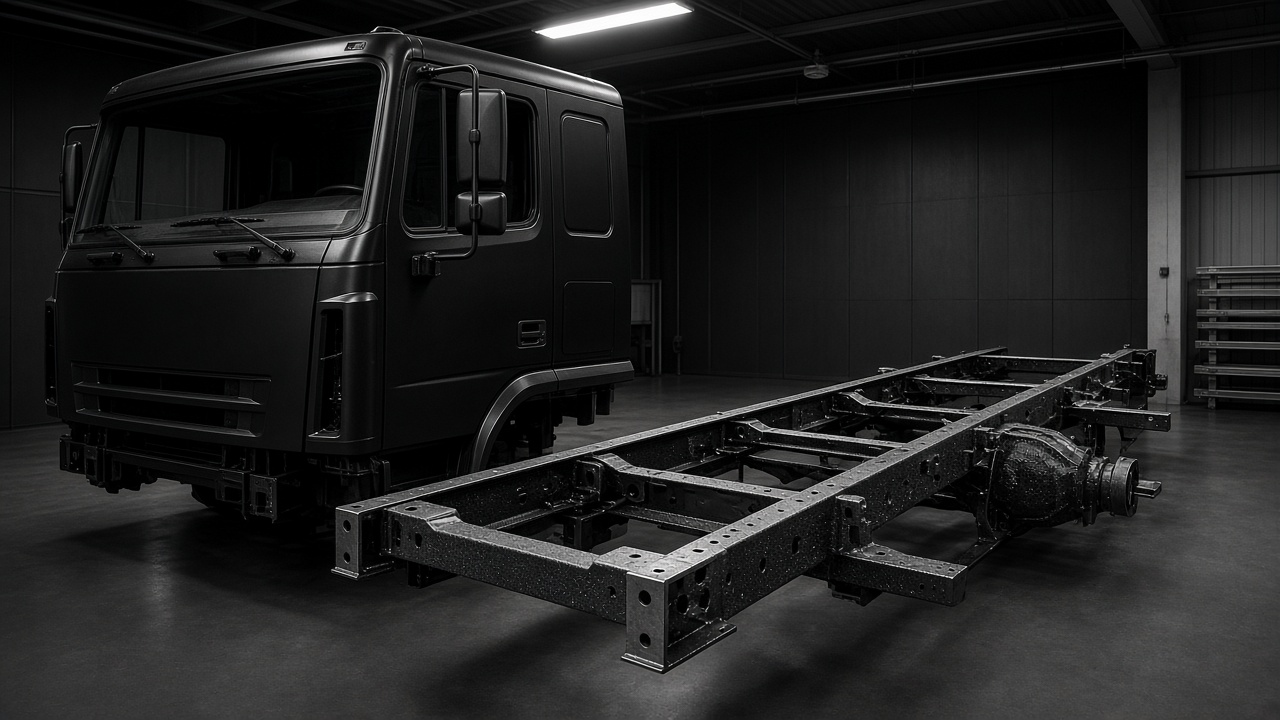
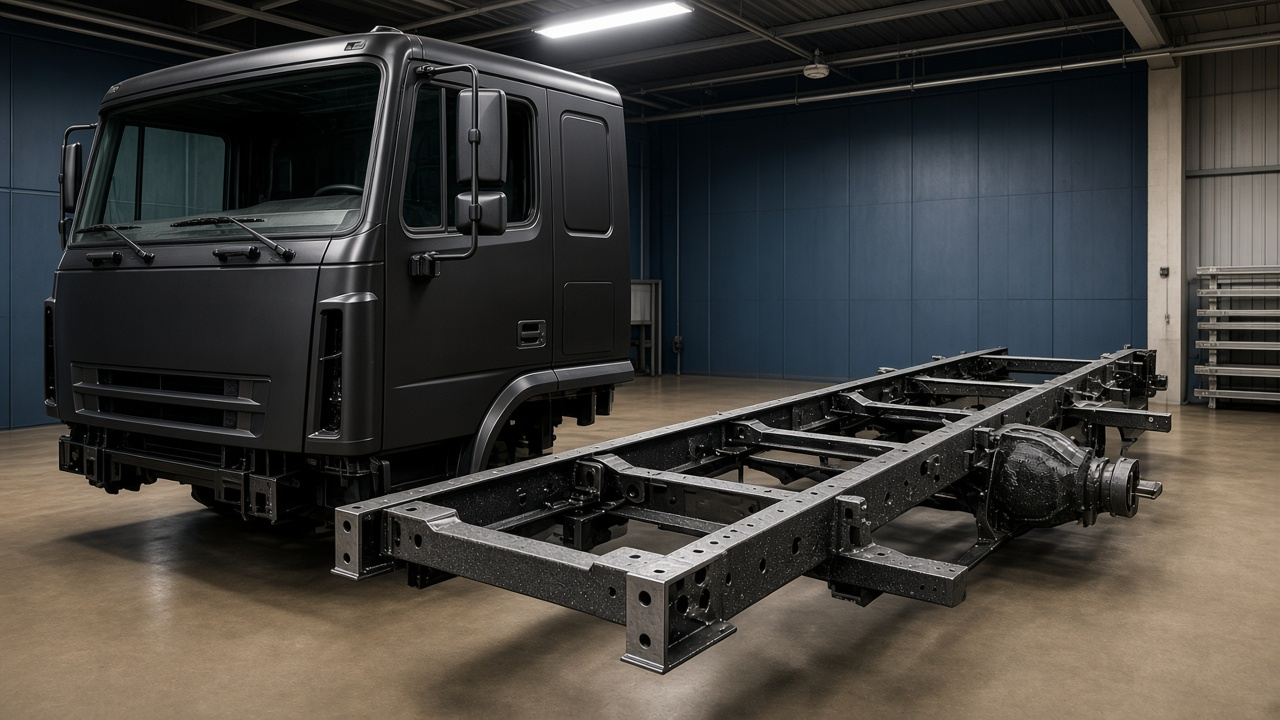
Добавить МАЗ и КамАЗ и показать на марках AdBlue и ремонт блоков вместо диагностики.

diff --git a/content/brands.ts b/content/brands.ts
@@ -6,6 +6,8 @@ export type Brand = {
   lead: string;
   notes?: string[];
   works: string[];
+  /** Фото тягача. Если нет — /images/brands/{slug}-truck.jpg */
+  truck?: string;
   parts?: {
     title: string;
     text: string;
@@ -17,7 +19,8 @@ const chineseWorks = [
   "Антикоррозийная обработка рамы, кабины и скрытых полостей",
   "Утепление и шумоизоляция кабины",
   "Установка пневмосидений вместо механических",
-  "Диагностика и ремонт электрики",
+  "Отключение AdBlue эмулятором и программно",
+  "Ремонт электронных блоков управления",
 ];
 
 const chineseNotes = [
@@ -29,7 +32,7 @@ function chineseBrand(slug: string, name: string): Brand {
     slug,
     name,
     title: `${name}: антикор, утепление кабины, пневмосиденья`,
-    description: `Антикор рамы и кабины ${name}, утепление и шумоизоляция, пневмосиденья вместо механических и ремонт электрики в AVTO RAZUM.`,
+    description: `Антикор рамы и кабины ${name}, утепление и шумоизоляция, пневмосиденья, отключение AdBlue эмулятором и программно, ремонт электронных блоков управления в AVTO RAZUM.`,
     lead: "Shacman, Sitrak, FAW, Foton, JAC и Dongfeng приходят с завода с тонкой защитой металла, холодными кабинами и механическими сиденьями. Доводим их до европейского уровня комфорта и защиты в первые недели эксплуатации.",
     notes: chineseNotes,
     works: chineseWorks,
@@ -42,8 +45,8 @@ export const brands: Brand[] = [
     name: "MAN",
     title: "MAN: ремонт блоков EDC и отключение AdBlue Евро 6",
     description:
-      "Ремонт блоков EDC MAN, программирование EDC17CV42 Евро 6, отключение AdBlue, дверные модули и блоки тормозной системы в AVTO RAZUM.",
-    lead: "Ремонт блоков EDC MS6.x с программированием, кодирование EDC17CV42 (Евро 6), отключение AdBlue, ремонт дверных модулей и блоков тормозной системы.",
+      "Ремонт блоков EDC MAN, программирование EDC17CV42 Евро 6, отключение AdBlue эмулятором и программно, дверные модули и блоки тормозной системы в AVTO RAZUM.",
+    lead: "Ремонт блоков EDC MS6.x с программированием, кодирование EDC17CV42 (Евро 6), отключение AdBlue эмулятором и программно, ремонт дверных модулей и блоков тормозной системы.",
     notes: [
       "Для большинства работ достаточно блока, снятого с автомобиля.",
       "Если блок EDC не подходит по артикулу, номера подгоняем под эту машину и программируем: EDC, FFR, PTM, ZBR2, EBS, ECAS, COMBI, ASTRONIC.",
@@ -52,7 +55,7 @@ export const brands: Brand[] = [
     works: [
       "Ремонт блоков EDC MS6.x с программированием",
       "Перепрограммирование EDC 7C32 из Евро 5 в Евро 4 и Евро 3",
-      "Программирование EDC17CV42 (Евро 6) 0281020273, отключение AdBlue Евро 6",
+      "Программирование EDC17CV42 (Евро 6) 0281020273, отключение AdBlue эмулятором и программно",
       "Ремонт и восстановление дверных модулей",
       "Изменение конфигурации: автомат или механика, VIN, ретардер, крутящий момент",
       "Изготовление и программирование ключей",
@@ -79,10 +82,10 @@ export const brands: Brand[] = [
     title: "Mercedes-Benz: отключение AdBlue, программирование блоков и ключи",
     description:
       "Отключение AdBlue Mercedes-Benz, программирование блоков MR, MCM, ADM, FR и KI, изготовление ключей и ремонт блоков в AVTO RAZUM.",
-    lead: "Программное отключение AdBlue на Евро 5, снятие ограничения момента, программирование блоков MR, MCM, ADM, FR и KI, изготовление ключей, работы со Sprinter и Smart.",
+    lead: "Отключение AdBlue эмулятором и программно, снятие ограничения момента, программирование блоков MR, MCM, ADM, FR и KI, изготовление ключей, работы со Sprinter и Smart.",
     notes: ["Во всех работах используется штатное дилерское оборудование."],
     works: [
-      "Программное отключение AdBlue на Евро 5",
+      "Отключение AdBlue эмулятором и программно",
       "Отключение ограничения крутящего момента на Евро 6, 5 и 4",
       "Программирование блоков MR, MCM, ADM, FR и KI",
       "Изготовление механических ключей, программирование чип-ключей, замена ELV и EZS",
@@ -98,7 +101,7 @@ export const brands: Brand[] = [
     name: "Scania",
     title: "Scania: ремонт и замена координатора C007",
     description:
-      "Ремонт и замена координатора C007 Scania, обмен на блоки 250 и 500 kb, отключение AdBlue и диагностика в AVTO RAZUM.",
+      "Ремонт и замена координатора C007 Scania, обмен на блоки 250 и 500 kb, отключение AdBlue эмулятором и программно, ремонт электронных блоков управления в AVTO RAZUM.",
     lead: "Координатор C007 на Scania с 2010 года имеет производственный дефект и массово выходит из строя. Ремонтируем с гарантией на оборудовании с контролем термопрофиля пайки. Восстановленные блоки 250 и 500 kb есть на обмен.",
     notes: [
       "Симптомы: машина заглохла на ходу, на дисплее ошибки по координатору и другим блокам, стартер не реагирует, при включённом зажигании постоянно горят стоп-сигналы.",
@@ -111,7 +114,7 @@ export const brands: Brand[] = [
       "Обмен на восстановленный C007 (250 kb / 500 kb по скорости CAN)",
       "Замена и программирование координатора",
       "Поддержка номеров запчастей: 2309730, 2485932, 2437721, 1871892 и другие",
-      "Отключение AdBlue, диагностика на дилерском оборудовании",
+      "Отключение AdBlue эмулятором и программно",
     ],
     parts: {
       title: "Поддерживаемые номера координаторов C007",
@@ -188,63 +191,89 @@ export const brands: Brand[] = [
   {
     slug: "volvo",
     name: "Volvo",
-    title: "Volvo: отключение AdBlue и DPF, электрика",
+    title: "Volvo: отключение AdBlue и ремонт блоков управления",
     description:
-      "Отключение AdBlue и DPF на Volvo FH и FM, диагностика и программирование блоков, ремонт электропроводки в AVTO RAZUM.",
-    lead: "Отключение AdBlue и сажевого фильтра, диагностика и программирование блоков управления на дилерском оборудовании для Volvo FH и FM. Те же работы делаем на Renault T, Premium и Magnum.",
+      "Отключение AdBlue эмулятором и программно, ремонт электронных блоков управления и DPF на Volvo FH и FM в AVTO RAZUM.",
+    lead: "Отключение AdBlue эмулятором и программно, ремонт электронных блоков управления и сажевого фильтра для Volvo FH и FM. Те же работы делаем на Renault T, Premium и Magnum.",
     notes: ["Оригинальное диагностическое оборудование."],
     works: [
-      "Отключение AdBlue Евро 5 и Евро 6",
+      "Отключение AdBlue эмулятором и программно",
       "Отключение DPF/EGR, вырезка фильтра",
-      "Диагностика и программирование блоков управления",
+      "Ремонт электронных блоков управления",
       "Изменение параметров автомобиля",
-      "Ремонт электропроводки и разъёмов",
     ],
   },
   {
     slug: "renault",
     name: "Renault",
-    title: "Renault Trucks: отключение AdBlue и DPF, электрика",
+    title: "Renault Trucks: отключение AdBlue и ремонт блоков управления",
     description:
-      "Отключение AdBlue и DPF на Renault T, Premium и Magnum, диагностика и программирование блоков, ремонт электропроводки в AVTO RAZUM.",
-    lead: "Отключение AdBlue и сажевого фильтра, диагностика и программирование блоков управления на дилерском оборудовании для Renault T, Premium и Magnum. Те же работы делаем на Volvo FH и FM.",
+      "Отключение AdBlue эмулятором и программно, ремонт электронных блоков управления и DPF на Renault T, Premium и Magnum в AVTO RAZUM.",
+    lead: "Отключение AdBlue эмулятором и программно, ремонт электронных блоков управления и сажевого фильтра для Renault T, Premium и Magnum. Те же работы делаем на Volvo FH и FM.",
     notes: ["Оригинальное диагностическое оборудование."],
     works: [
-      "Отключение AdBlue Евро 5 и Евро 6",
+      "Отключение AdBlue эмулятором и программно",
       "Отключение DPF/EGR, вырезка фильтра",
-      "Диагностика и программирование блоков управления",
+      "Ремонт электронных блоков управления",
       "Изменение параметров автомобиля",
-      "Ремонт электропроводки и разъёмов",
     ],
   },
   {
     slug: "daf",
     name: "DAF",
-    title: "DAF: диагностика, отключение AdBlue и DPF",
+    title: "DAF: отключение AdBlue и ремонт блоков управления",
     description:
-      "Диагностика DAF XF, CF и LF, отключение AdBlue и сажевого фильтра Евро 5 и Евро 6 в AVTO RAZUM.",
-    lead: "Диагностика на оригинальном оборудовании, отключение AdBlue и сажевого фильтра для DAF XF, CF и LF Евро 5 и Евро 6.",
+      "Отключение AdBlue эмулятором и программно, ремонт электронных блоков управления и сажевого фильтра на DAF XF, CF и LF Евро 5 и Евро 6 в AVTO RAZUM.",
+    lead: "Отключение AdBlue эмулятором и программно, ремонт электронных блоков управления и сажевого фильтра для DAF XF, CF и LF Евро 5 и Евро 6.",
     notes: ["Оригинальное диагностическое оборудование."],
     works: [
-      "Отключение AdBlue Евро 5 и Евро 6",
+      "Отключение AdBlue эмулятором и программно",
       "Отключение DPF и EGR",
-      "Диагностика и удаление ошибок",
-      "Программирование блоков управления",
+      "Ремонт электронных блоков управления",
     ],
   },
   {
     slug: "iveco",
     name: "IVECO",
-    title: "IVECO: отключение AdBlue, DPF, автоэлектрика",
+    title: "IVECO: отключение AdBlue и ремонт блоков управления",
     description:
-      "Отключение AdBlue и DPF на IVECO Stralis, Eurocargo и Daily, диагностика и ремонт электрики в AVTO RAZUM.",
-    lead: "Отключение AdBlue и сажевого фильтра, диагностика и ремонт электрики для IVECO Stralis, Eurocargo и Daily.",
+      "Отключение AdBlue эмулятором и программно, ремонт электронных блоков управления и DPF на IVECO Stralis, Eurocargo и Daily в AVTO RAZUM.",
+    lead: "Отключение AdBlue эмулятором и программно, ремонт электронных блоков управления и сажевого фильтра для IVECO Stralis, Eurocargo и Daily.",
     notes: ["Оригинальное диагностическое оборудование."],
     works: [
-      "Отключение AdBlue Евро 5 и Евро 6",
+      "Отключение AdBlue эмулятором и программно",
       "Отключение DPF и EGR",
-      "Диагностика и удаление ошибок",
-      "Ремонт электропроводки, блоков и разъёмов",
+      "Ремонт электронных блоков управления",
+    ],
+  },
+  {
+    slug: "maz",
+    name: "МАЗ",
+    truck: "/images/brands/maz-tyagach.jpg",
+    title: "МАЗ: отключение AdBlue и ремонт блоков управления",
+    description:
+      "Отключение AdBlue эмулятором и программно, ремонт электронных блоков управления и DPF на МАЗ 5440, 6501 и 5340 в AVTO RAZUM.",
+    lead: "Отключение AdBlue эмулятором и программно, ремонт электронных блоков управления и сажевого фильтра для МАЗ 5440, 6501 и 5340.",
+    notes: ["Оригинальное диагностическое оборудование."],
+    works: [
+      "Отключение AdBlue эмулятором и программно",
+      "Отключение DPF и EGR",
+      "Ремонт электронных блоков управления",
+    ],
+  },
+  {
+    slug: "kamaz",
+    name: "КамАЗ",
+    truck: "/images/brands/kamaz-tyagach.jpg",
+    title: "КамАЗ: отключение AdBlue и ремонт блоков управления",
+    description:
+      "Отключение AdBlue эмулятором и программно, ремонт электронных блоков управления и DPF на КамАЗ 5490, 6520 и 65115 в AVTO RAZUM.",
+    lead: "Отключение AdBlue эмулятором и программно, ремонт электронных блоков управления и сажевого фильтра для КамАЗ 5490, 6520 и 65115.",
+    notes: ["Оригинальное диагностическое оборудование."],
+    works: [
+      "Отключение AdBlue эмулятором и программно",
+      "Отключение DPF и EGR",
+      "Ремонт электронных блоков управления",
     ],
   },
   chineseBrand("dongfeng", "Dongfeng"),
@@ -263,6 +292,8 @@ const brandMarks: Record<string, string> = {
   renault: "/images/brands/renault-trucks.jpg",
   daf: "/images/brands/daf-hq.jpg",
   iveco: "/images/brands/iveco-hq.jpg",
+  maz: "/images/brands/maz-hq.jpg",
+  kamaz: "/images/brands/kamaz-hq.jpg",
   dongfeng: "/images/brands/dongfeng-hq.jpg",
   faw: "/images/brands/faw-hq.jpg",
   foton: "/images/brands/foton-hq.jpg",

diff --git a/content/services.ts b/content/services.ts
@@ -131,10 +131,10 @@ export const services: Service[] = [
     seoTitle: "Утепление и шумоизоляция кабин грузовиков в Минске",
     short: "Тише в кабине и дольше держит тепло на стоянке.",
     description:
-      "Утепление и шумоизоляция кабин грузовиков в Минске: пол, стенки, крыша, спальный отсек и моторный тоннель. Европейские тягачи, китайские грузовики и спецтехника. Мастерская в Новом Дворе.",
-    lead: "Утепление и шумоизоляция кабин грузовиков в Минске: разбираем обшивку, прокладываем вибро- и теплоизоляцию по полу, стенкам, крыше и моторному тоннелю, собираем обратно без следов. Кабина становится заметно тише и держит тепло на стоянке. Делаем в мастерской в Новом Дворе, Минский район.",
+      "Утепление и шумоизоляция кабин грузовиков в Минске: пол, стенки, крыша и спальный отсек. Европейские тягачи, китайские грузовики и спецтехника. Мастерская в Новом Дворе.",
+    lead: "Утепление и шумоизоляция кабин грузовиков в Минске: разбираем обшивку, прокладываем вибро- и теплоизоляцию по полу, стенкам и крыше, собираем обратно без следов. Кабина становится заметно тише и держит тепло на стоянке. Делаем в мастерской в Новом Дворе, Минский район.",
     includes: [
-      "Виброизоляция пола, дверей и моторного тоннеля",
+      "Виброизоляция пола и дверей",
       "Теплоизоляция стенок, крыши и спального отсека",
       "Шумоизоляция под обшивкой и в дверях",
       "Бесплатная консультация и замер",
@@ -164,8 +164,8 @@ export const services: Service[] = [
         answer: "Нет. Обшивка снимается штатно и ставится на место.",
       },
     ],
-    image: "/images/services/teplo-shum.jpg",
-    imageAlt: "Укладка шумоизоляции в салоне автомобиля",
+    image: "/images/services/teplo-shum-folga.jpg",
+    imageAlt: "Кабина грузовика без обшивки: фольга на потолке и стенках",
   },
   {
     slug: "remont-ebu",

diff --git a/app/uslugi/[slug]/page.tsx b/app/uslugi/[slug]/page.tsx
@@ -71,11 +71,13 @@ export default async function ServicePage({ params }: Props) {
         <span className="text-foreground">{service.title}</span>
       </nav>
       <div className="mt-10 grid grid-cols-1 items-start gap-10 lg:grid-cols-12">
-        <div className="lg:col-span-5">
+        <div className="min-w-0 lg:col-span-6">
           <p className="text-[11px] tracking-[0.18em] text-muted">
             {String(index + 1).padStart(2, "0")}
           </p>
-          <h1 className="mt-4 font-serif text-5xl leading-[0.95] md:text-6xl">{service.seoTitle}</h1>
+          <h1 className="mt-4 max-w-full text-balance font-serif text-4xl leading-[0.95] hyphens-auto sm:text-5xl lg:text-[2.5rem] xl:text-[2.85rem]">
+            {service.seoTitle}
+          </h1>
           <p className="mt-6 text-lg leading-relaxed">{service.lead}</p>
           <ul className="mt-8 space-y-3 border-t border-line pt-6">
             {service.includes.map((item) => (
@@ -89,7 +91,7 @@ export default async function ServicePage({ params }: Props) {
             Записаться
           </Link>
         </div>
-        <div className="relative aspect-[16/9] overflow-hidden lg:col-span-7 lg:aspect-auto lg:min-h-[32rem]">
+        <div className="relative aspect-[16/9] overflow-hidden border border-line lg:col-span-6 lg:aspect-auto lg:min-h-[32rem]">
           <Image
             src={service.image}
             alt={service.imageAlt}

diff --git a/app/api/lead/route.ts b/app/api/lead/route.ts
@@ -89,7 +89,7 @@ export async function POST(request: Request) {
       {
         ok: false,
         error:
-          "Заявки ещё не подключены к Telegram. Добавьте TELEGRAM_BOT_TOKEN и TELEGRAM_CHAT_ID в окружение сервера.",
+          "Не удалось отправить заявку. Попробуйте ещё раз чуть позже.",
       },
       { status: 503 },
     );
@@ -117,13 +117,13 @@ export async function POST(request: Request) {
     });
     if (!response.ok) {
       return NextResponse.json(
-        { ok: false, error: "Telegram не принял заявку. Попробуйте ещё раз чуть позже." },
+        { ok: false, error: "Не удалось отправить заявку. Попробуйте ещё раз чуть позже." },
         { status: 502 },
       );
     }
   } catch {
     return NextResponse.json(
-      { ok: false, error: "Не удалось связаться с Telegram. Попробуйте ещё раз чуть позже." },
+      { ok: false, error: "Не удалось отправить заявку. Попробуйте ещё раз чуть позже." },
       { status: 502 },
     );
   }

diff --git a/app/kontakty/page.tsx b/app/kontakty/page.tsx
@@ -9,7 +9,7 @@ import { pageMetadata } from "@/lib/seo";
 export const metadata: Metadata = pageMetadata({
   title: "Контакты и запись",
   description:
-    "Запись в AVTO RAZUM, Минск: форма уходит мастеру в Telegram. Instagram @avto.razum и Яндекс Карты.",
+    "Запись в AVTO RAZUM, Минск: форма приходит мастеру. Instagram @avto.razum и Яндекс Карты.",
   path: "/kontakty",
 });
 
@@ -34,7 +34,7 @@ export default function ContactsPage({ searchParams }: Props) {
         <p className="text-[11px] uppercase tracking-[0.22em] text-muted">{site.city}</p>
         <h1 className="mt-4 font-serif text-5xl leading-[0.95] md:text-7xl">Контакты</h1>
         <p className="mt-6 max-w-2xl text-lg leading-relaxed text-muted">
-          Заявка с формы приходит в мастеру. Или можно написать в Instagram.
+          Заявка с формы приходит мастеру. Или можно написать в Instagram.
         </p>
       </header>
       <div className="mt-14 grid grid-cols-1 gap-16 lg:grid-cols-12">

diff --git a/app/page.tsx b/app/page.tsx
@@ -53,7 +53,7 @@ export default function HomePage() {
             fill
             priority
             sizes="100vw"
-            className="object-cover"
+            className="object-cover grayscale"
           />
         </div>
       </section>
@@ -101,7 +101,7 @@ export default function HomePage() {
             <p className="text-[11px] uppercase tracking-[0.22em] text-muted">Запись</p>
             <h2 className="mt-4 font-serif text-5xl leading-none md:text-6xl">Коротко о задаче</h2>
             <p className="mt-6 max-w-md text-base leading-relaxed text-muted">
-              Имя, телефон и что случилось с машиной. Заявка приходит мастеру в Telegram.
+              Имя, телефон и что случилось с машиной. Заявка приходит мастеру.
             </p>
           </div>
           <LeadForm services={services} />

diff --git a/app/marki/page.tsx b/app/marki/page.tsx
@@ -7,7 +7,7 @@ import { pageMetadata } from "@/lib/seo";
 export const metadata: Metadata = pageMetadata({
   title: "Марки грузовиков",
   description:
-    "Марки, с которыми работает AVTO RAZUM: MAN, Mercedes-Benz, Scania, Volvo, Renault, DAF, IVECO и китайские грузовики.",
+    "Марки, с которыми работает AVTO RAZUM: MAN, Mercedes-Benz, Scania, Volvo, Renault, DAF, IVECO, МАЗ, КамАЗ и китайские грузовики.",
   path: "/marki",
 });
 

diff --git a/components/HomeBrands.tsx b/components/HomeBrands.tsx
@@ -2,7 +2,7 @@ import Image from "next/image";
 import Link from "next/link";
 import { brandMark, brands, type Brand } from "@/content/brands";
 
-const cardSlugs = ["man", "mercedes-benz", "scania", "volvo", "renault", "daf", "iveco"] as const;
+const cardSlugs = ["man", "mercedes-benz", "scania", "volvo", "renault", "daf", "iveco", "maz", "kamaz"] as const;
 const chineseSlugs = ["dongfeng", "faw", "foton", "jac", "shacman", "sitrak"] as const;
 
 const cardClass =

diff --git a/app/marki/[slug]/page.tsx b/app/marki/[slug]/page.tsx
@@ -81,7 +81,7 @@ export default async function BrandPage({ params }: Props) {
         </div>
         <div>
           <Image
-            src={`/images/brands/${brand.slug}-truck.jpg`}
+            src={brand.truck ?? `/images/brands/${brand.slug}-truck.jpg`}
             alt={`${brand.name}, грузовик`}
             width={1280}
             height={720}
